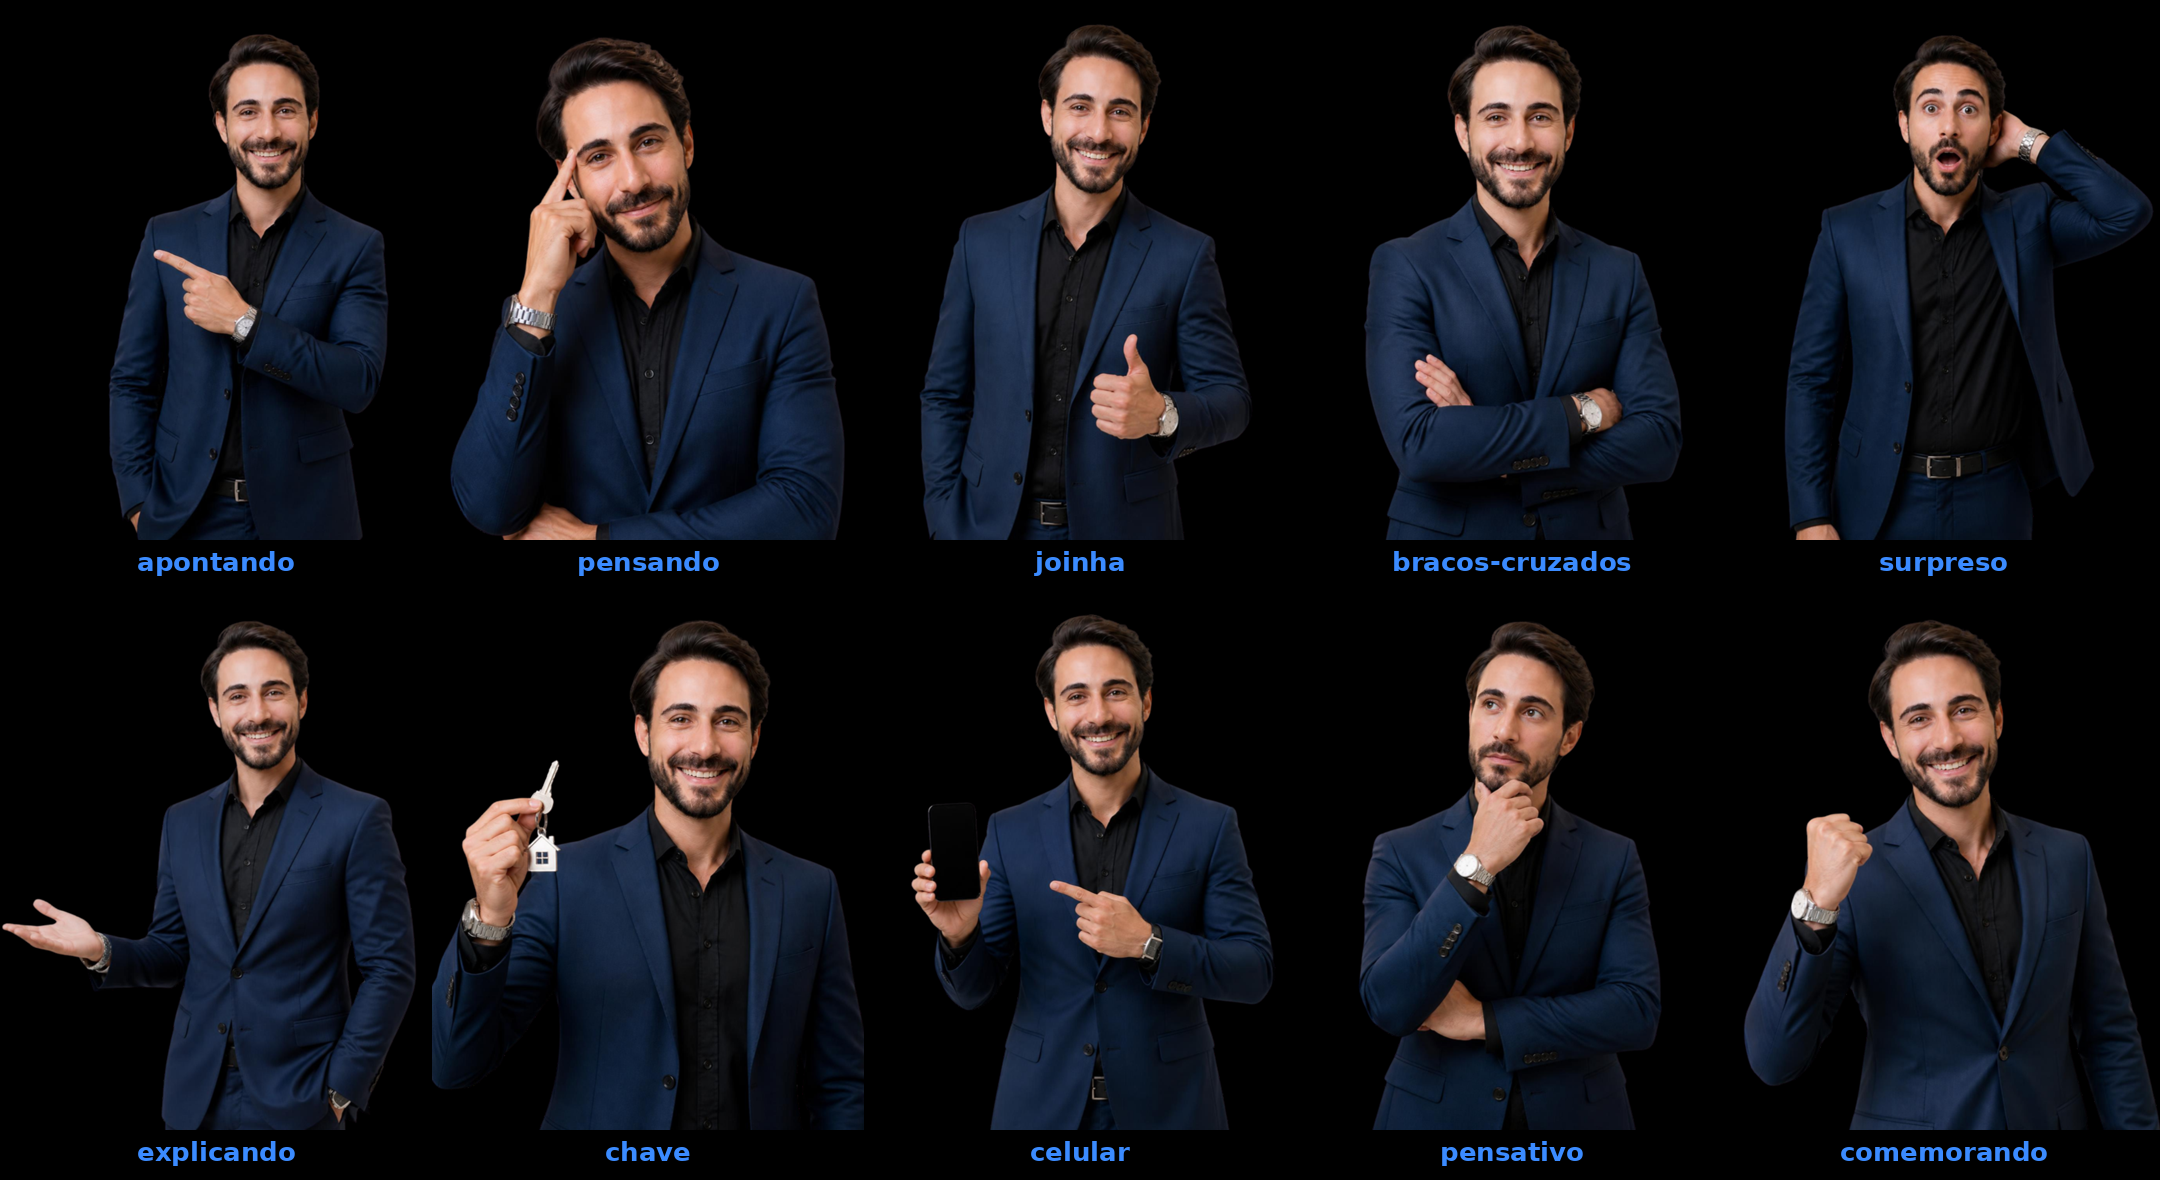
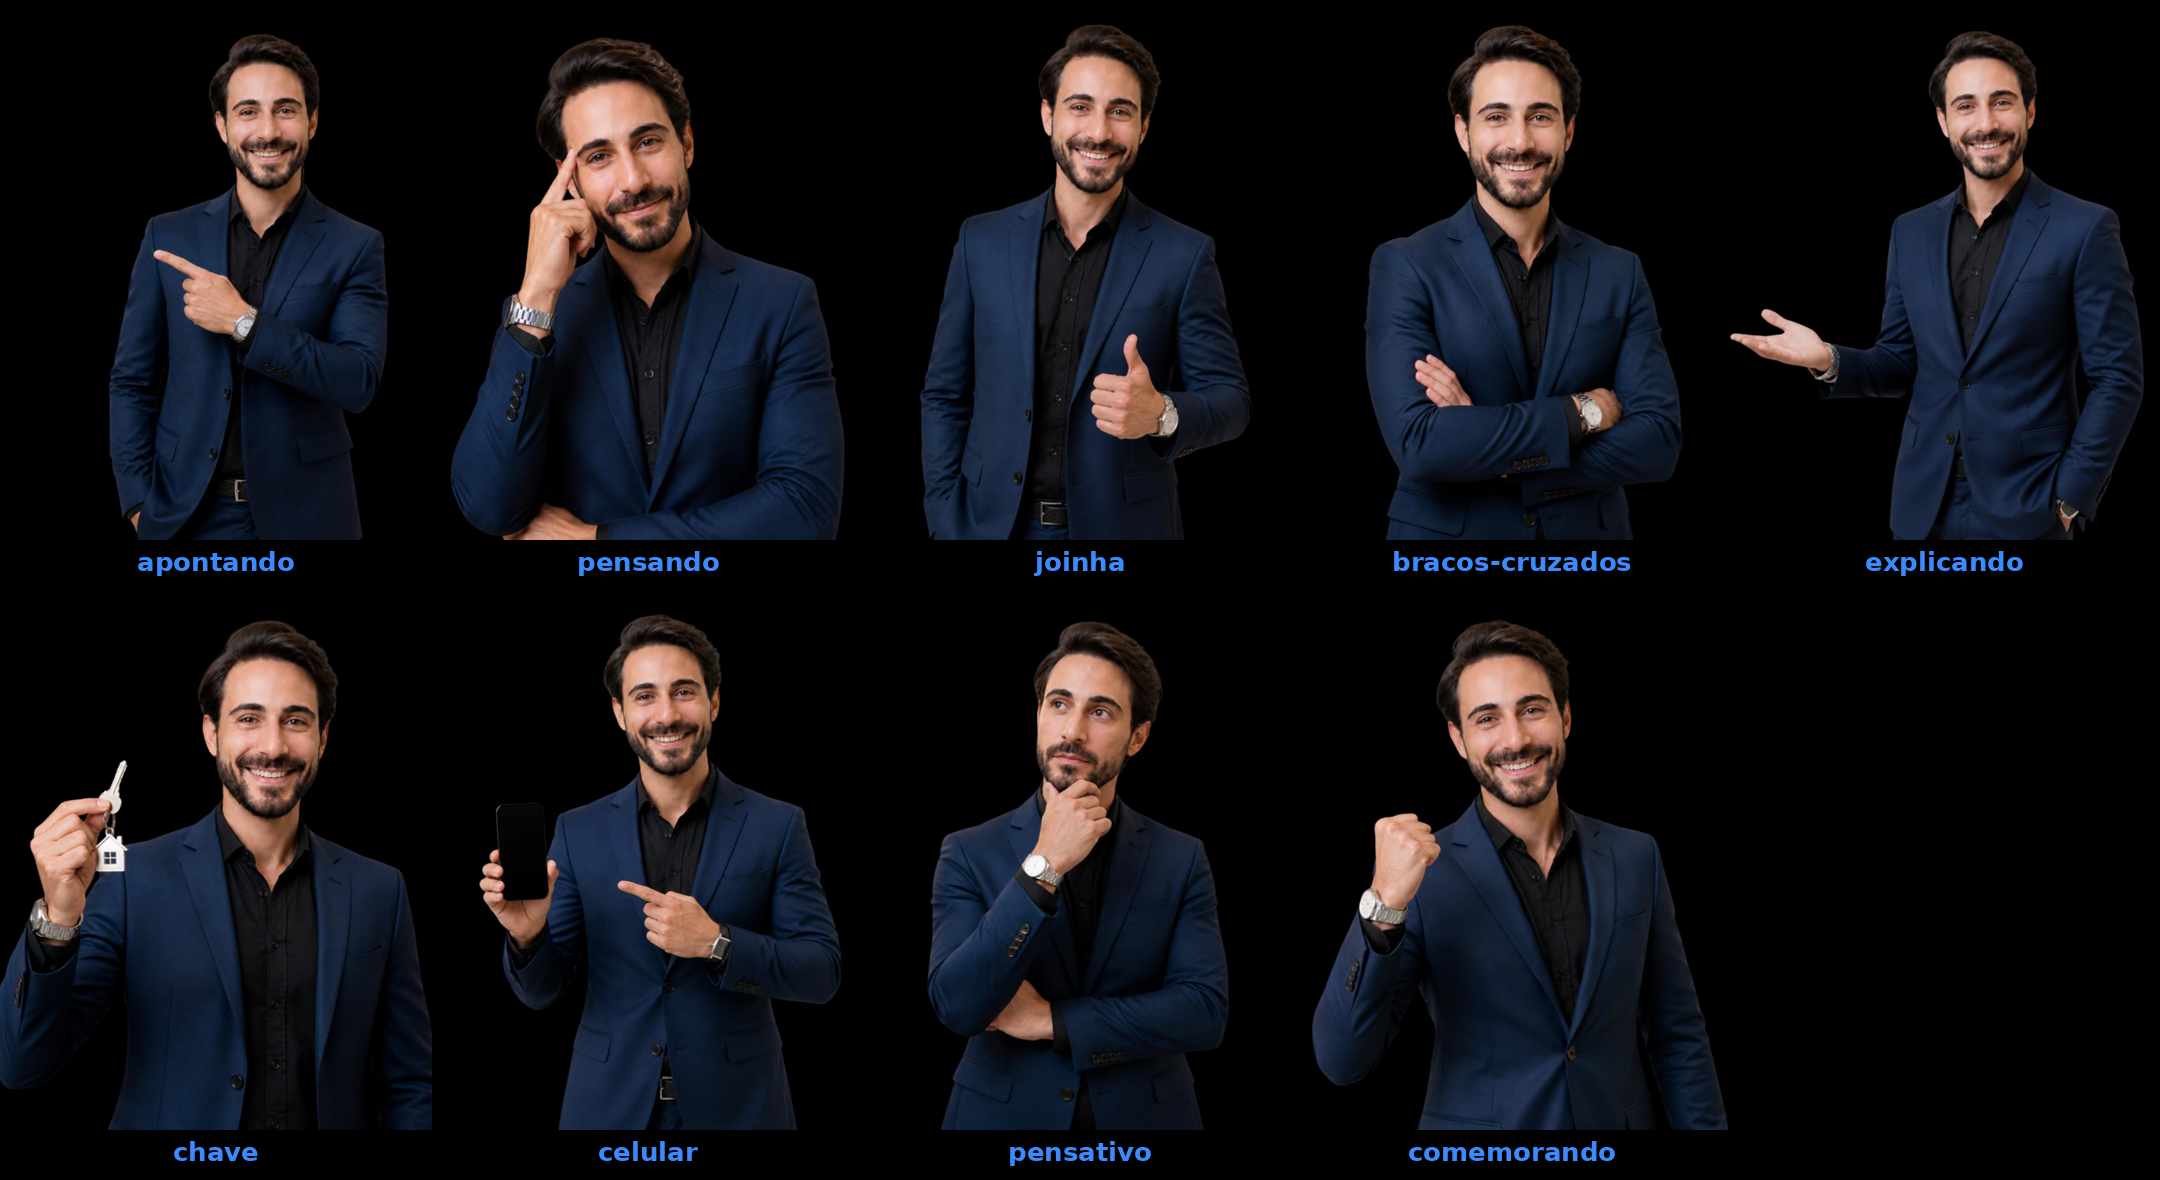
Remove a pose 'surpreso' (boneco e realista): dono não quer expressão de espanto
Claude-Session: https://claude.ai/code/session_018X91MFfPMRMPYSAfb3KdfT

Changed region(s): [[0.0, 0.5186, 1.0, 1.0], [0.8065, 0.0305, 1.0, 0.4881]]

diff --git a/.claude/skills/carrossel/SKILL.md b/.claude/skills/carrossel/SKILL.md
@@ -37,9 +37,10 @@ Foto **apontando** (sem fundo, 2026-10-11): `docs/posicionamento/assets/matheus-
 ## Boneco 3D do Matheus (2026-10-11)
 **Regra do dono (2026-10-12) — automática, sem ele pedir:** sempre que a referência tiver uma **pessoa** na lâmina (o autor do post, alguém posando, apontando, reagindo), recriar essa lâmina com o **boneco** no lugar da pessoa — escolher a pose/expressão mais parecida entre as existentes (meio corpo ou `corpo-inteiro/`). Se nenhuma pose combinar, **criar a pose nova** (fluxo abaixo), salvar em `boneco-3d/` (ou `corpo-inteiro/`), atualizar a `prancha.png` e a lista de poses desta seção, e usar no carrossel — tudo no mesmo pedido, avisando na entrega qual pose foi criada. Cena com outra pessoa além do autor (ex.: cliente na foto): o boneco ocupa o lugar do autor; não colocar pessoas reais nem inventar "cliente" como se fosse real.
 
-Personagem 3D **estilo desenho animado/caricatura** (cabeça e olhos grandes, traços simplificados — o dono pediu em 2026-10-11 que pareça claramente um boneco, não uma versão "mais bonita" dele), feito no Canva a partir das fotos dele (só as fotos em que ele aparece sozinho), fundo transparente, em `docs/posicionamento/assets/boneco-3d/<pose>.png` (catálogo: `prancha.png`). Poses: `apontando`, `pensando`, `joinha`, `bracos-cruzados`, `surpreso`, `explicando`, `chave`, `celular`, `pensativo`, `comemorando`, `selfie` (braço sai pela borda direita). Na lâmina: `"boneco": "<pose>"` (entra à direita, igual ao `comFoto`). **Corpo inteiro** (2026-10-12) em `boneco-3d/corpo-inteiro/` (catálogo `prancha.png`): `em-pe`, `apontando`, `joinha`, `bracos-cruzados`, `andando`, `chave`, `pasta`, `celular`, `comemorando`, `sentado` — usar `"boneco": "corpo-inteiro/<pose>"`. Visual pedido pelo dono: bem magro, 1,70 m, esporte fino, calça na altura do tornozelo, sem meia, mocassim preto sem cadarço (repetir isso no prompt de pose nova). Uma pose por lâmina, combinando com o texto (ex.: `pensando` na capa "eu faria isso", `surpreso` em mito/erro, `celular` no "me chama na DM", `chave` em conquista). Pose nova: gerar com `generate-image` pedindo "exatamente o MESMO personagem de desenho animado da primeira referência" e usando como 1ª referência uma das poses atuais + o mesmo texto de descrição (blazer azul-marinho, camisa preta, relógio prateado), `remove-background` e exportar com fundo transparente pelo design auxiliar.
+Personagem 3D **estilo desenho animado/caricatura** (cabeça e olhos grandes, traços simplificados — o dono pediu em 2026-10-11 que pareça claramente um boneco, não uma versão "mais bonita" dele), feito no Canva a partir das fotos dele (só as fotos em que ele aparece sozinho), fundo transparente, em `docs/posicionamento/assets/boneco-3d/<pose>.png` (catálogo: `prancha.png`). Poses: `apontando`, `pensando`, `joinha`, `bracos-cruzados`, `explicando`, `chave`, `celular`, `pensativo`, `comemorando`, `selfie` (braço sai pela borda direita). Na lâmina: `"boneco": "<pose>"` (entra à direita, igual ao `comFoto`). **Corpo inteiro** (2026-10-12) em `boneco-3d/corpo-inteiro/` (catálogo `prancha.png`): `em-pe`, `apontando`, `joinha`, `bracos-cruzados`, `andando`, `chave`, `pasta`, `celular`, `comemorando`, `sentado` — usar `"boneco": "corpo-inteiro/<pose>"`. Visual pedido pelo dono: bem magro, 1,70 m, esporte fino, calça na altura do tornozelo, sem meia, mocassim preto sem cadarço (repetir isso no prompt de pose nova). Uma pose por lâmina, combinando com o texto (ex.: `pensando` na capa "eu faria isso", `pensativo` em mito/erro, `celular` no "me chama na DM", `chave` em conquista). Pose nova: gerar com `generate-image` pedindo "exatamente o MESMO personagem de desenho animado da primeira referência" e usando como 1ª referência uma das poses atuais + o mesmo texto de descrição (blazer azul-marinho, camisa preta, relógio prateado), `remove-background` e exportar com fundo transparente pelo design auxiliar.
 
 ## Fotos realistas do Matheus (2026-10-12)
+**Não usar expressão de surpresa/espanto (boca aberta)** em nenhuma versão — o dono reprovou (2026-10-12); referência com pessoa surpresa → usar `pensativo` ou `pensando`.
 A pedido do dono, as 10 poses de meio corpo também existem como **fotos realistas profissionais** (geradas no Canva a partir das fotos dele, fundo transparente) em `boneco-3d/realista/` (catálogo `prancha.png`), mesmos nomes de pose. Uso: `"boneco": "realista/<pose>"`. Perguntar ao dono se prefere boneco ou realista quando não estiver claro.
 
 ## Imagens geradas no Canva sem trabalho manual (2026-10-11)
